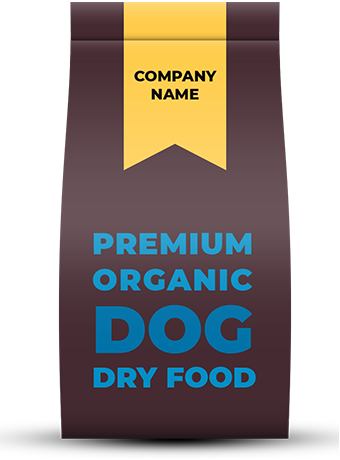
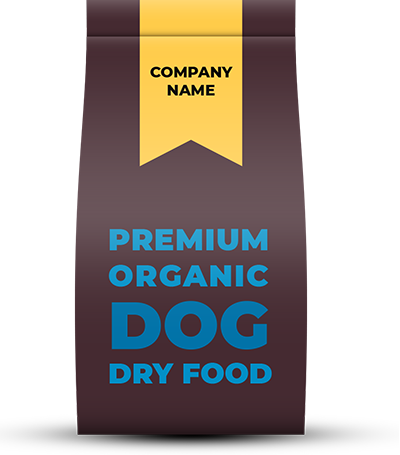
adicionando menu hamburguer

Changed region(s): [[0.1765, 0.0, 0.9706, 0.9846], [0.2647, 0.5846, 0.7353, 0.7692]]

diff --git a/src/css/style.css b/src/css/style.css
@@ -46,11 +46,36 @@ ul li {
 .header .top {
     display: flex;
     justify-content: space-between;
-    padding-top: 3rem;
+    align-items: center;
+    padding: 3rem 3rem;
 
 }
 .header .top a img{
     width: clamp(21rem, 30vw, 26rem);
+}
+
+.header .top a {
+    color: var(--color-5);
+}
+.header .top nav button {
+    display: none;
+}
+.header .top nav ul {
+    display: flex;
+    list-style-type: none;
+    flex-wrap: wrap;
+}
+.header .top nav ul li {
+    margin-left: 4rem;
+    margin-bottom: 1rem;
+}
+.header .top nav ul li a {
+    font-size: clamp(1.4rem, 2vw, 1.8rem);
+    font-weight: 500;
+    padding-bottom: .6rem;
+}
+.header .top nav ul li a:hover {
+    border-bottom: 0.2rem solid var(--color-5);
 }
 
 .centralizar{
@@ -82,7 +107,6 @@ ul li {
 .container-titulo {
     text-align: center;
     max-width: fit-content;
-    /* flex: 1 1 27rem; */
     margin-left: 30%;
 }
 .container-titulo .titulo {
@@ -97,19 +121,15 @@ ul li {
 }
 .container-titulo .conteudo-balao img {
     width: clamp(27rem, 35vw, 56rem);
-    /* max-width: 56rem; */
-    /* min-width: 30rem; */
 }
 .container-titulo .conteudo-balao h2 {
     position: absolute;
     top: 50%;
-    right: 28%;
+    right: 30%;
     transform: rotateZ(-15deg) translateY(-60%);
     font-size: clamp(2.4rem, 4vw, 4.8rem);
     font-weight: 700;
     color: var(--color-3);
-    
-    
 }
 
 .container {
@@ -123,7 +143,6 @@ ul li {
     display: flex;
     justify-content: space-around;
     padding-left: 15%;
-    
 }
 .container .our-story .story-conteudo h2 {
     /* width: 15%; */
@@ -141,11 +160,8 @@ ul li {
     justify-content: space-evenly;
 }
 .container .our-story .story-conteudo .text-image > div {
-    /* width: 40%; */
     max-width: 45%;
     flex: 1 ;
-    /* margin-left: 2rem; */
-    /* padding: 4rem; */
 }
 
 .container .our-story .story-conteudo .text-image > div > p {
@@ -164,7 +180,6 @@ ul li {
 .container .our-story .cao-deitado {
     width: clamp(27rem, 30vw, 43rem);
     position: absolute;
-    /* bottom: -23rem; */
     top: 0;
     display: flex;
     flex-direction: column;
@@ -197,7 +212,6 @@ ul li {
     padding: 0 20% ;
 }
 
-
 .container .start-life {
     margin: 8rem 0;
     display: flex;
@@ -227,8 +241,6 @@ ul li {
 .container .start-life .dog-black img {
     width: clamp(17rem, 25vw, 35rem);
 }
-
-
 
 .container .breeds-getting {
     position: relative;
@@ -261,7 +273,7 @@ ul li {
 }
 .container .breeds-getting .breeds .search {
     font-size: clamp(1rem, 2.5vw, 1.6rem);
-    margin-bottom: 4rem;
+    margin-bottom: 3rem;
     padding-bottom: 1.2rem;
     position: relative;
     border: none;
@@ -271,7 +283,6 @@ ul li {
 .container .breeds-getting .breeds .search input {
     width: 100%;
 }
-
 .container .breeds-getting .breeds .search a {
     position: absolute;
     top: -1rem;
@@ -323,7 +334,7 @@ ul li {
 }
 .container .breeds-getting .getting-dog p {
     font-size: clamp(1rem, 2.5vw, 1.6rem);
-    padding-bottom: 4rem;
+    padding-bottom: 3rem;
 }
 .container .breeds-getting .getting-dog a {
     font-size: clamp(.7rem, 1.5vw, 1.6rem);
@@ -331,9 +342,6 @@ ul li {
     padding: 1.2rem 1.6rem;
     text-align: center;
 }
-
-
-
 
 .container .products {
     display: flex;
@@ -369,11 +377,6 @@ ul li {
     width: fit-content;
 }
 
-
-
-
-
-
 .footer {
     max-width: 144rem;
     display: flex;
@@ -398,7 +401,6 @@ ul li {
     justify-content: space-between;
 }
 .footer .conteudo-footer ul {
-    /* width: clamp(11rem, 30vw, 40rem); */
     max-width: 40rem;
     display: flex;
     flex-wrap: wrap;
@@ -446,6 +448,7 @@ ul li {
 .footer .conteudo-footer .container-social p {
     font-size: clamp(1rem, 1.5vw, 1.4rem);
     padding: 2rem 1rem 1.5rem 0;
+    text-align: center;
 }
 .balloon {
     display: flex;

diff --git a/index.html b/index.html
@@ -30,7 +30,7 @@
                 <a href="#"><img src="src/imagens/logo.png" alt="Logo"></a>
                 <nav>
                     <button onclick="menuShow()"><img src="src/imagens/close.png" alt="botão do menu"
-                            class="icon"></button>
+                            class="icon-menu"></button>
                     <ul class="menu open">
                         <li><a href="#shop-dog">SHOP FOR DOG</a></li>
                         <li><a href="#shop-cat">SHOP FOR CAT</a></li>
@@ -42,7 +42,7 @@
             <section class="hero">
 
                 <div class="racao">
-                    <img src="src/imagens/racao2.png" alt="Ração">
+                    <img src="src/imagens/racao.png" alt="Ração">
                 </div>
                 <div class="container-titulo">
                     <h1 class="titulo">Help your Dog Maintain <br> a <span>Healthier Weight</span> with </h1>
@@ -53,7 +53,7 @@
                 </div>
 
                 <div class="dog-hero">
-                    <img src="src/imagens/Dog-1-reduz.png" alt="Cão">
+                    <img src="src/imagens/Dog-1-reduz.png" alt="Cão" title="Au Au">
                 </div>
             </section>
         </div>
@@ -68,7 +68,7 @@
                         </P>
                         <a href="#">READ MORE </a>
                     </div>
-                    <div><img src="src/imagens/racao2.png" alt="Ração"></div>
+                    <div><img src="src/imagens/racao.png" alt="Ração"></div>
                 </div>
             </div>
             <div class="cao-deitado">
@@ -125,7 +125,7 @@
 
         <section class="products">
             <div class="product">
-                <img src="src/imagens/racao2.png" alt="Ração">
+                <img src="src/imagens/racao.png" alt="Ração">
             </div>
             <div class="products-info">
                 <h2>FIND THE RIGHT FOOD FOR YOUR DOG</h2>
@@ -171,6 +171,7 @@
         </footer>
     </main>
 
+    <script src="src/js/menu.js"></script>
 </body>
 
 </html>

diff --git a/src/css/responsive.css b/src/css/responsive.css
@@ -1,5 +1,53 @@
 @media (max-width: 760px) {
-    
+    .open {
+        width: 0px;
+        max-height: 0px;
+        overflow: auto;
+        display: none;
+    }
+
+    .header .top nav button {
+        display: block;
+        border: none;
+        width: 3.6rem;
+        height: 3.6rem;
+        cursor: pointer;
+        background-color: transparent;
+    }
+    .header .top nav button img {
+        width: 3.6rem;
+        height: 3.6rem;
+    }
+    .header .top nav {
+        position: relative;
+    }
+    .header .top nav ul {
+        position: absolute;
+        right: 0;
+        /* padding-top: 2rem; */
+        width: 20rem;
+        /* background-color: #94c4db; */
+        background: rgb(148,196,219);
+        background: radial-gradient(circle, rgba(148,196,219,1) 0%, rgba(189,226,244,1) 100%);
+        border-radius: 12px 0 12px 12px;
+        flex-direction: column;
+        box-shadow: 0 .1rem .3rem rgba(51, 51, 0, 0.1);
+        cursor: pointer;
+        margin-bottom: 15px;
+        z-index: 99;
+    }
+    .header .top nav ul li {
+        padding: 8px 0px;
+        
+    }
+    .header .top nav ul li a {
+        padding-bottom: 0px;
+    }
+    .header .top nav ul li a:first-child {
+        margin-top: 0rem;
+    }
+
+
     .racao {
         order:0;
     }
@@ -15,13 +63,19 @@
     .container-titulo {
         margin-left: 0;
     }
+    .container-titulo .titulo {
+        font-size: clamp(2.4rem, 5vw, 3.6rem);
+        padding-bottom: 1rem;
+    }
     .container-titulo .conteudo-balao img{
         /* margin-left: 0; */
         width: clamp(27rem, 70vw, 56rem);
     }
     .container-titulo .conteudo-balao h2{
         right: 35%;
+        font-size: clamp(2.4rem, 6vw, 4.8rem);
     }
+    
     .dog-hero{
         /* margin-left: 30%; */
         order: 3;

diff --git a/src/js/menu.js b/src/js/menu.js
@@ -1,0 +1,19 @@
+function menuShow() {
+    let menuMobile = document.querySelector('.menu');
+    if (menuMobile.classList.contains('open')) {
+        menuMobile.classList.remove('open');
+        document.querySelector('.icon-menu').src = "src/imagens/close.png";
+    } else {
+        menuMobile.classList.add('open');
+        document.querySelector('.icon-menu').src = "src/imagens/menu.png";
+    }
+}
+
+function changedSize() {
+    let menuMobile = document.querySelector('.menu');
+    if (window.innerWidth <= 760) {
+        menuMobile.classList.add('open');
+    } else {
+        menuMobile.classList.remove('open');
+    }
+}
